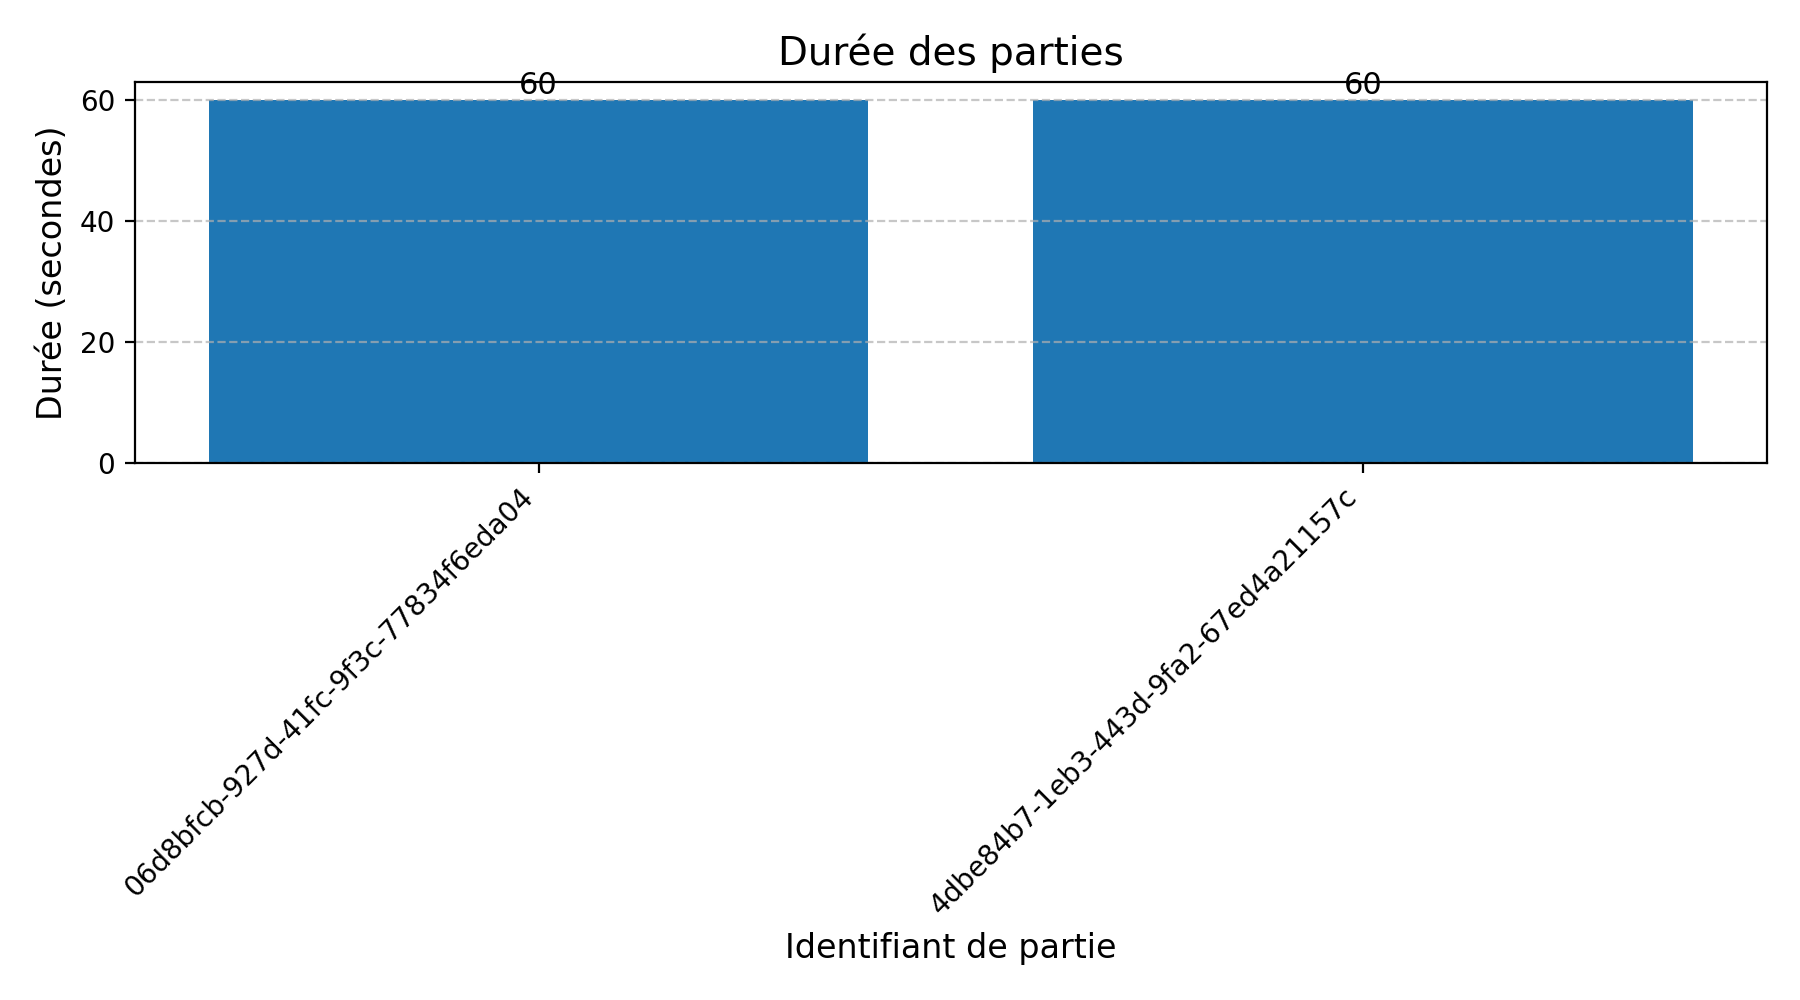
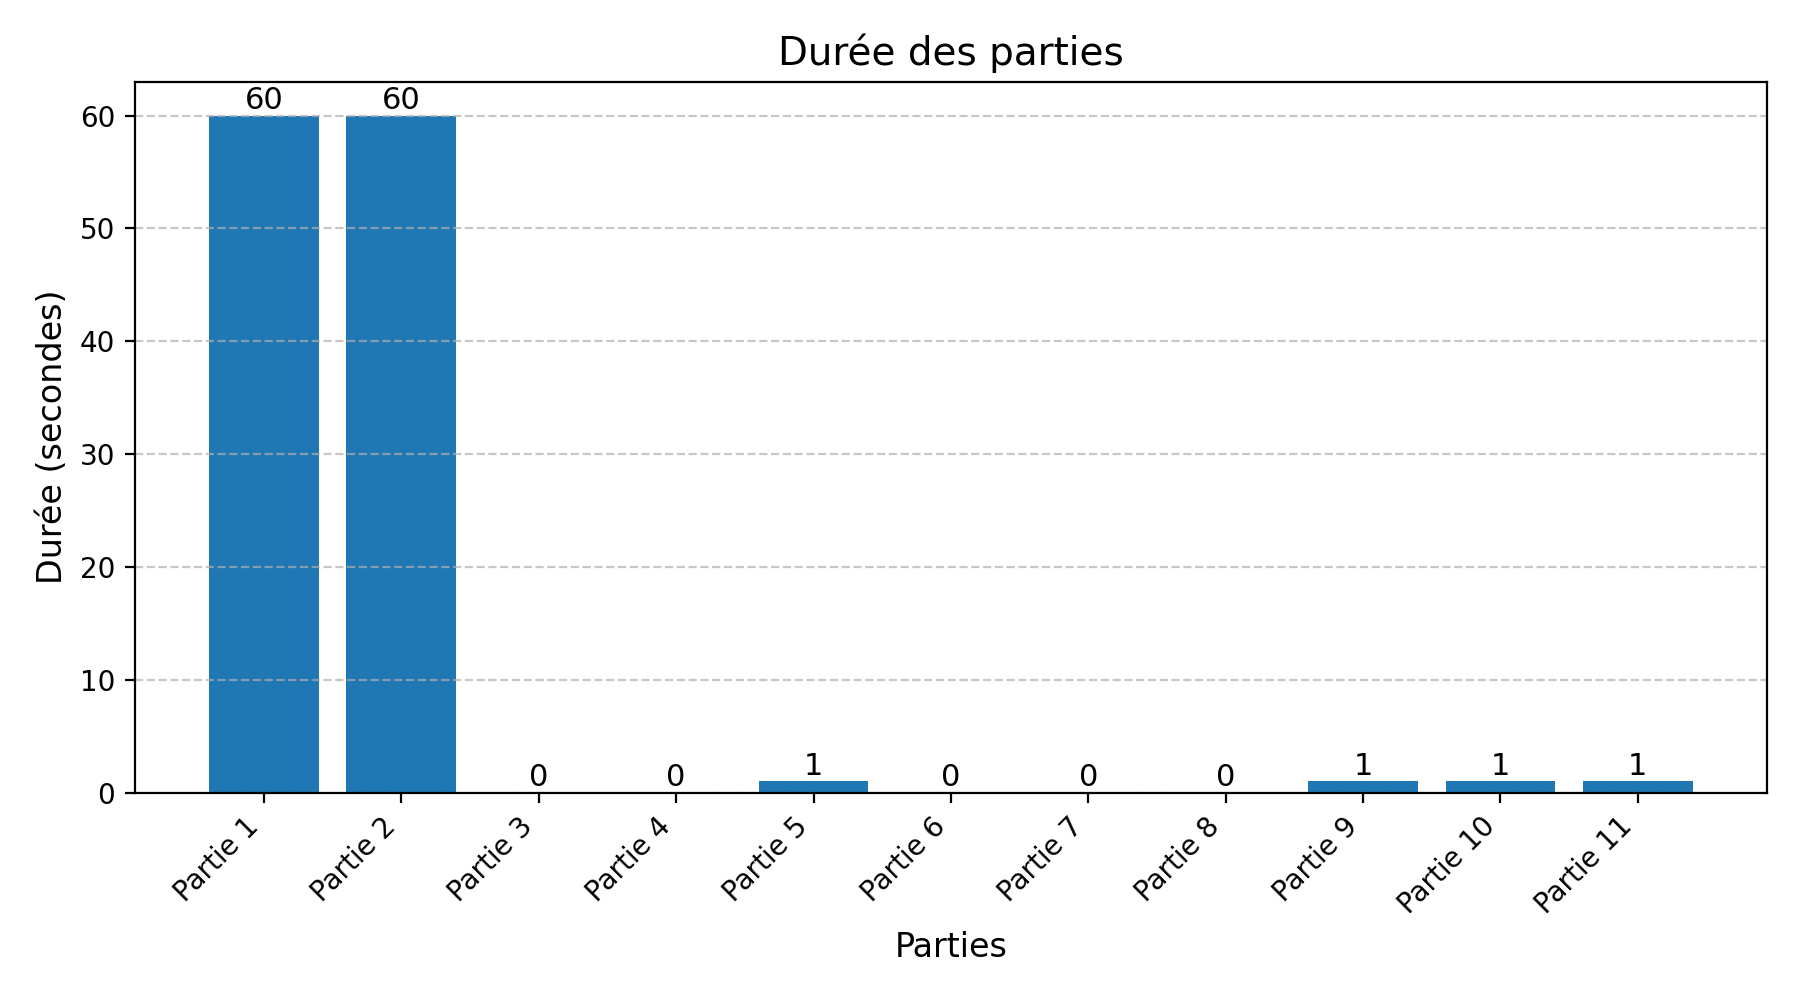
modification test

diff --git a/src/test_db.py b/src/test_db.py
@@ -1,5 +1,7 @@
 from datetime import datetime
 import uuid
+import random
+import time
 
 from src.database.db_manager import (
     init_db,
@@ -18,18 +20,123 @@ def now_iso() -> str:
     return datetime.now().isoformat(timespec="seconds")
 
 
+def simulate_round():
+    """
+    Simule une manche simple de blackjack.
+    Retourne un dictionnaire contenant :
+    - valeur initiale de la main
+    - carte visible du croupier
+    - liste des actions
+    - score final joueur
+    - score final croupier
+    - résultat
+    - has_blackjack
+    - has_bust
+    - mise
+    - gain/perte
+    """
+
+    bet_amount = 10.0
+
+    # Main initiale du joueur et carte visible du croupier
+    initial_hand_value = random.randint(12, 20)
+    dealer_visible_card = str(random.randint(2, 11))
+
+    actions = []
+    current_value = initial_hand_value
+    action_order = 1
+
+    # Petite logique de décision simple :
+    # si score faible, le joueur a plus de chances de tirer
+    # si score élevé, il a plus de chances de rester
+    while current_value < 21:
+        if current_value <= 14:
+            action_type = random.choices(["hit", "stand"], weights=[80, 20])[0]
+        elif current_value <= 17:
+            action_type = random.choices(["hit", "stand"], weights=[50, 50])[0]
+        else:
+            action_type = random.choices(["hit", "stand"], weights=[20, 80])[0]
+
+        if action_type == "stand":
+            actions.append({
+                "action_type": "stand",
+                "hand_value_before": current_value,
+                "hand_value_after": current_value,
+                "drawn_card": None,
+                "action_order": action_order,
+                "timestamp": now_iso()
+            })
+            break
+
+        drawn_card_value = random.randint(1, 10)
+        new_value = current_value + drawn_card_value
+
+        actions.append({
+            "action_type": "hit",
+            "hand_value_before": current_value,
+            "hand_value_after": new_value,
+            "drawn_card": str(drawn_card_value),
+            "action_order": action_order,
+            "timestamp": now_iso()
+        })
+
+        current_value = new_value
+        action_order += 1
+
+        if current_value > 21:
+            break
+
+    final_hand_value = current_value
+    has_blackjack = 1 if initial_hand_value == 21 else 0
+    has_bust = 1 if final_hand_value > 21 else 0
+
+    # Logique simplifiée du croupier
+    dealer_final_value = random.randint(17, 23)
+
+    # Détermination du résultat
+    if has_bust:
+        result = "lose"
+    elif dealer_final_value > 21:
+        result = "win"
+    elif final_hand_value > dealer_final_value:
+        result = "win"
+    elif final_hand_value == dealer_final_value:
+        result = "push"
+    else:
+        result = "lose"
+
+    # Gain / perte
+    if result == "win":
+        gain_loss = bet_amount
+    elif result == "lose":
+        gain_loss = -bet_amount
+    else:
+        gain_loss = 0.0
+
+    return {
+        "initial_hand_value": initial_hand_value,
+        "dealer_visible_card": dealer_visible_card,
+        "actions": actions,
+        "final_hand_value": final_hand_value,
+        "dealer_final_value": dealer_final_value,
+        "result": result,
+        "has_blackjack": has_blackjack,
+        "has_bust": has_bust,
+        "bet_amount": bet_amount,
+        "gain_loss": gain_loss,
+    }
+
+
 def main():
     # 1. Initialiser la base
     init_db()
     print("Base initialisée.")
 
-    # 2. Générer des UID
+    # 2. Générer des UID principaux
     player_id = str(uuid.uuid4())
     game_id = str(uuid.uuid4())
     round_id = str(uuid.uuid4())
     initial_deal_id = str(uuid.uuid4())
-    action_id_1 = str(uuid.uuid4())
-    action_id_2 = str(uuid.uuid4())
     result_id = str(uuid.uuid4())
 
     # 3. Insérer un joueur
@@ -46,61 +153,51 @@ def main():
     log_round_started(round_id, game_id, round_number=1, start_time=round_start)
     print("Manche démarrée.")
 
-    # 6. Enregistrer la distribution initiale
-    # Exemple : joueur a 16, croupier montre un 9
+    # 6. Simuler une manche réaliste
+    simulation = simulate_round()
+
+    # 7. Enregistrer la distribution initiale
     log_initial_deal(
         deal_id=initial_deal_id,
         round_id=round_id,
         player_id=player_id,
-        initial_hand_value=16,
-        dealer_card="9"
+        initial_hand_value=simulation["initial_hand_value"],
+        dealer_card=simulation["dealer_visible_card"]
     )
     print("Distribution initiale enregistrée.")
 
-    # 7. Action 1 : hit
-    log_player_action(
-        action_id=action_id_1,
-        game_id=game_id,
-        round_id=round_id,
-        player_id=player_id,
-        action_type="hit",
-        hand_value_before=16,
-        hand_value_after=20,
-        drawn_card="4",
-        action_order=1,
-        timestamp=now_iso()
-    )
-    print("Action 1 enregistrée : hit.")
+    # 8. Enregistrer les actions simulées
+    for action in simulation["actions"]:
+        log_player_action(
+            action_id=str(uuid.uuid4()),
+            game_id=game_id,
+            round_id=round_id,
+            player_id=player_id,
+            action_type=action["action_type"],
+            hand_value_before=action["hand_value_before"],
+            hand_value_after=action["hand_value_after"],
+            drawn_card=action["drawn_card"],
+            action_order=action["action_order"],
+            timestamp=action["timestamp"]
+        )
+        print(f"Action enregistrée : {action['action_type']}")
 
-    # 8. Action 2 : stand
-    log_player_action(
-        action_id=action_id_2,
-        game_id=game_id,
-        round_id=round_id,
-        player_id=player_id,
-        action_type="stand",
-        hand_value_before=20,
-        hand_value_after=20,
-        drawn_card=None,
-        action_order=2,
-        timestamp=now_iso()
-    )
-    print("Action 2 enregistrée : stand.")
+    # Petite pause pour éviter une durée nulle
+    time.sleep(1)
 
     # 9. Résultat final de la manche
-    # Exemple : joueur 20, dealer 18 => win
     round_end = now_iso()
     log_round_result(
         result_id=result_id,
         round_id=round_id,
         player_id=player_id,
-        final_hand_value=20,
-        dealer_final_value=18,
-        result="win",
-        has_blackjack=0,
-        has_bust=0,
-        bet_amount=10.0,
-        gain_loss=10.0,
+        final_hand_value=simulation["final_hand_value"],
+        dealer_final_value=simulation["dealer_final_value"],
+        result=simulation["result"],
+        has_blackjack=simulation["has_blackjack"],
+        has_bust=simulation["has_bust"],
+        bet_amount=simulation["bet_amount"],
+        gain_loss=simulation["gain_loss"],
         end_time=round_end
     )
     print("Résultat de manche enregistré.")
@@ -111,11 +208,10 @@ def main():
 
     # 11. Clôturer la partie
     game_end = now_iso()
-    duration_seconds = 60
-    log_game_ended(game_id, game_end, duration_seconds)
+    log_game_ended(game_id, game_end)
     print("Partie terminée.")
 
-    print("Test terminé avec succès.")
+    print("Test réaliste terminé avec succès.")
 
 
 if __name__ == "__main__":

diff --git a/src/plot_metrics.py b/src/plot_metrics.py
@@ -143,10 +143,11 @@ def plot_average_game_duration(conn):
         return
 
     plt.figure(figsize=(9, 5))
-    bars = plt.bar(df["game_id"].astype(str), df["duration_seconds"])
+    df["game_label"] = [f"Partie {i+1}" for i in range(len(df))]
+    bars = plt.bar(df["game_label"], df["duration_seconds"])
 
     plt.title("Durée des parties")
-    plt.xlabel("Identifiant de partie")
+    plt.xlabel("Parties")
     plt.ylabel("Durée (secondes)")
     plt.xticks(rotation=45, ha="right")
     plt.grid(axis="y", linestyle="--", alpha=0.7)
